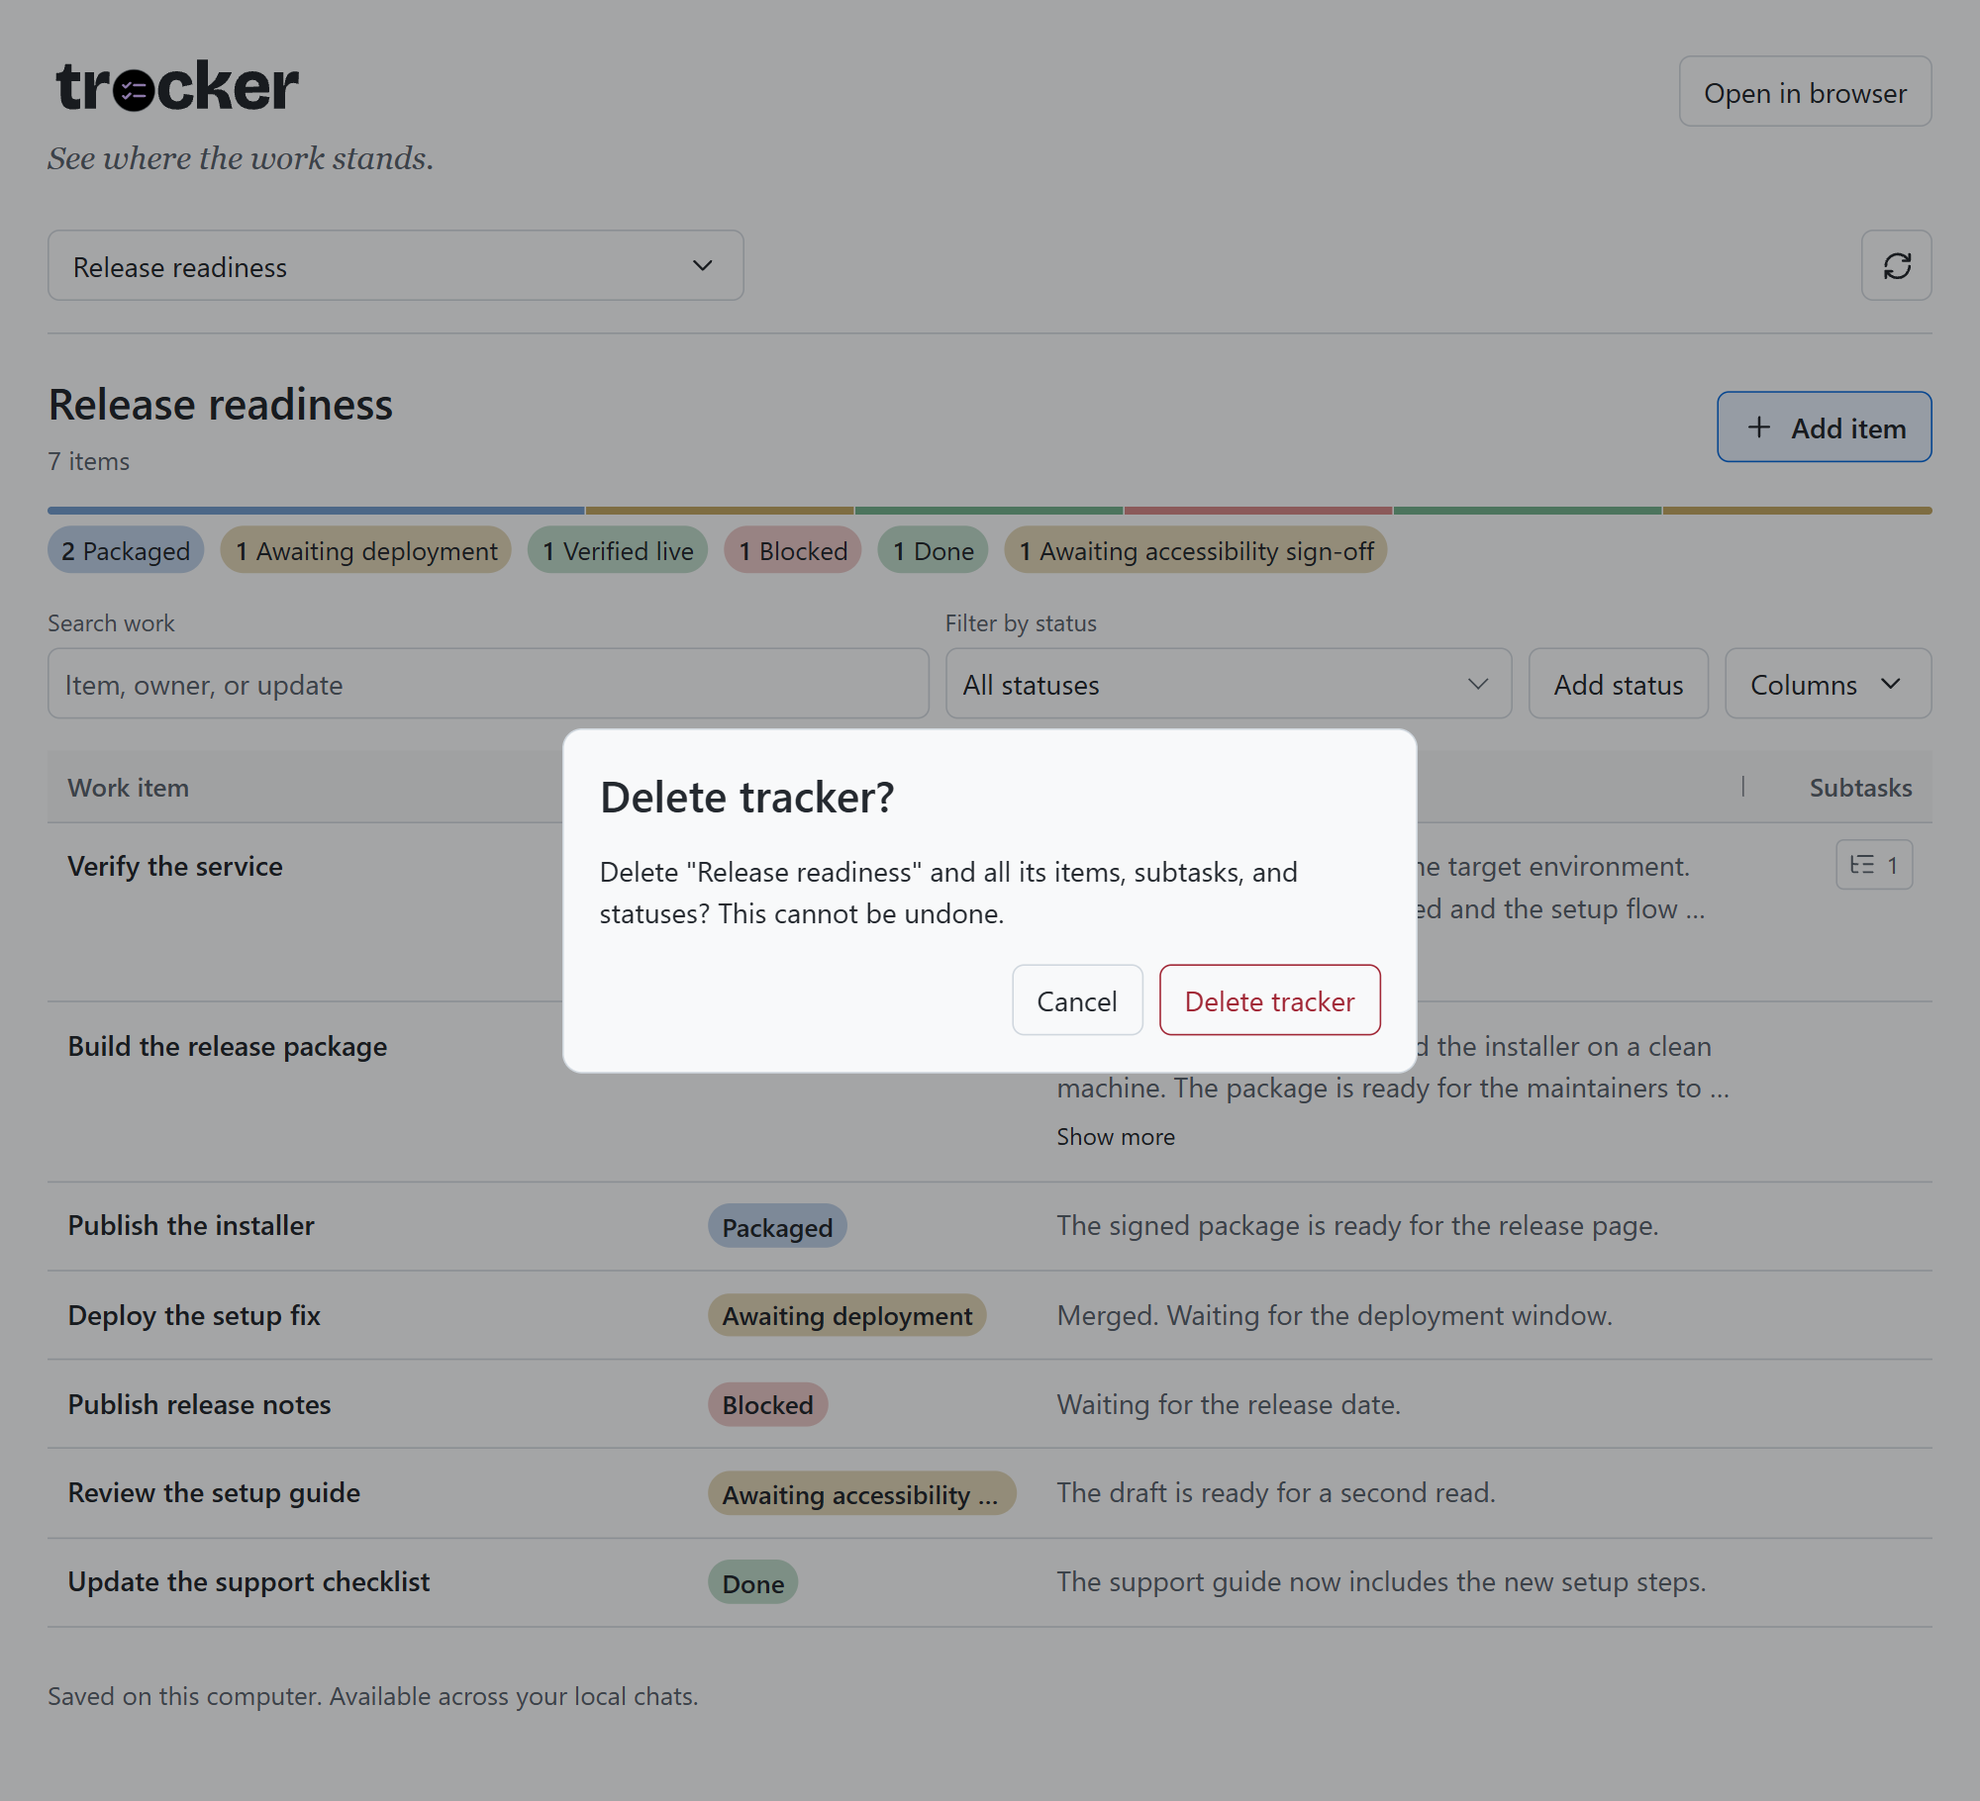
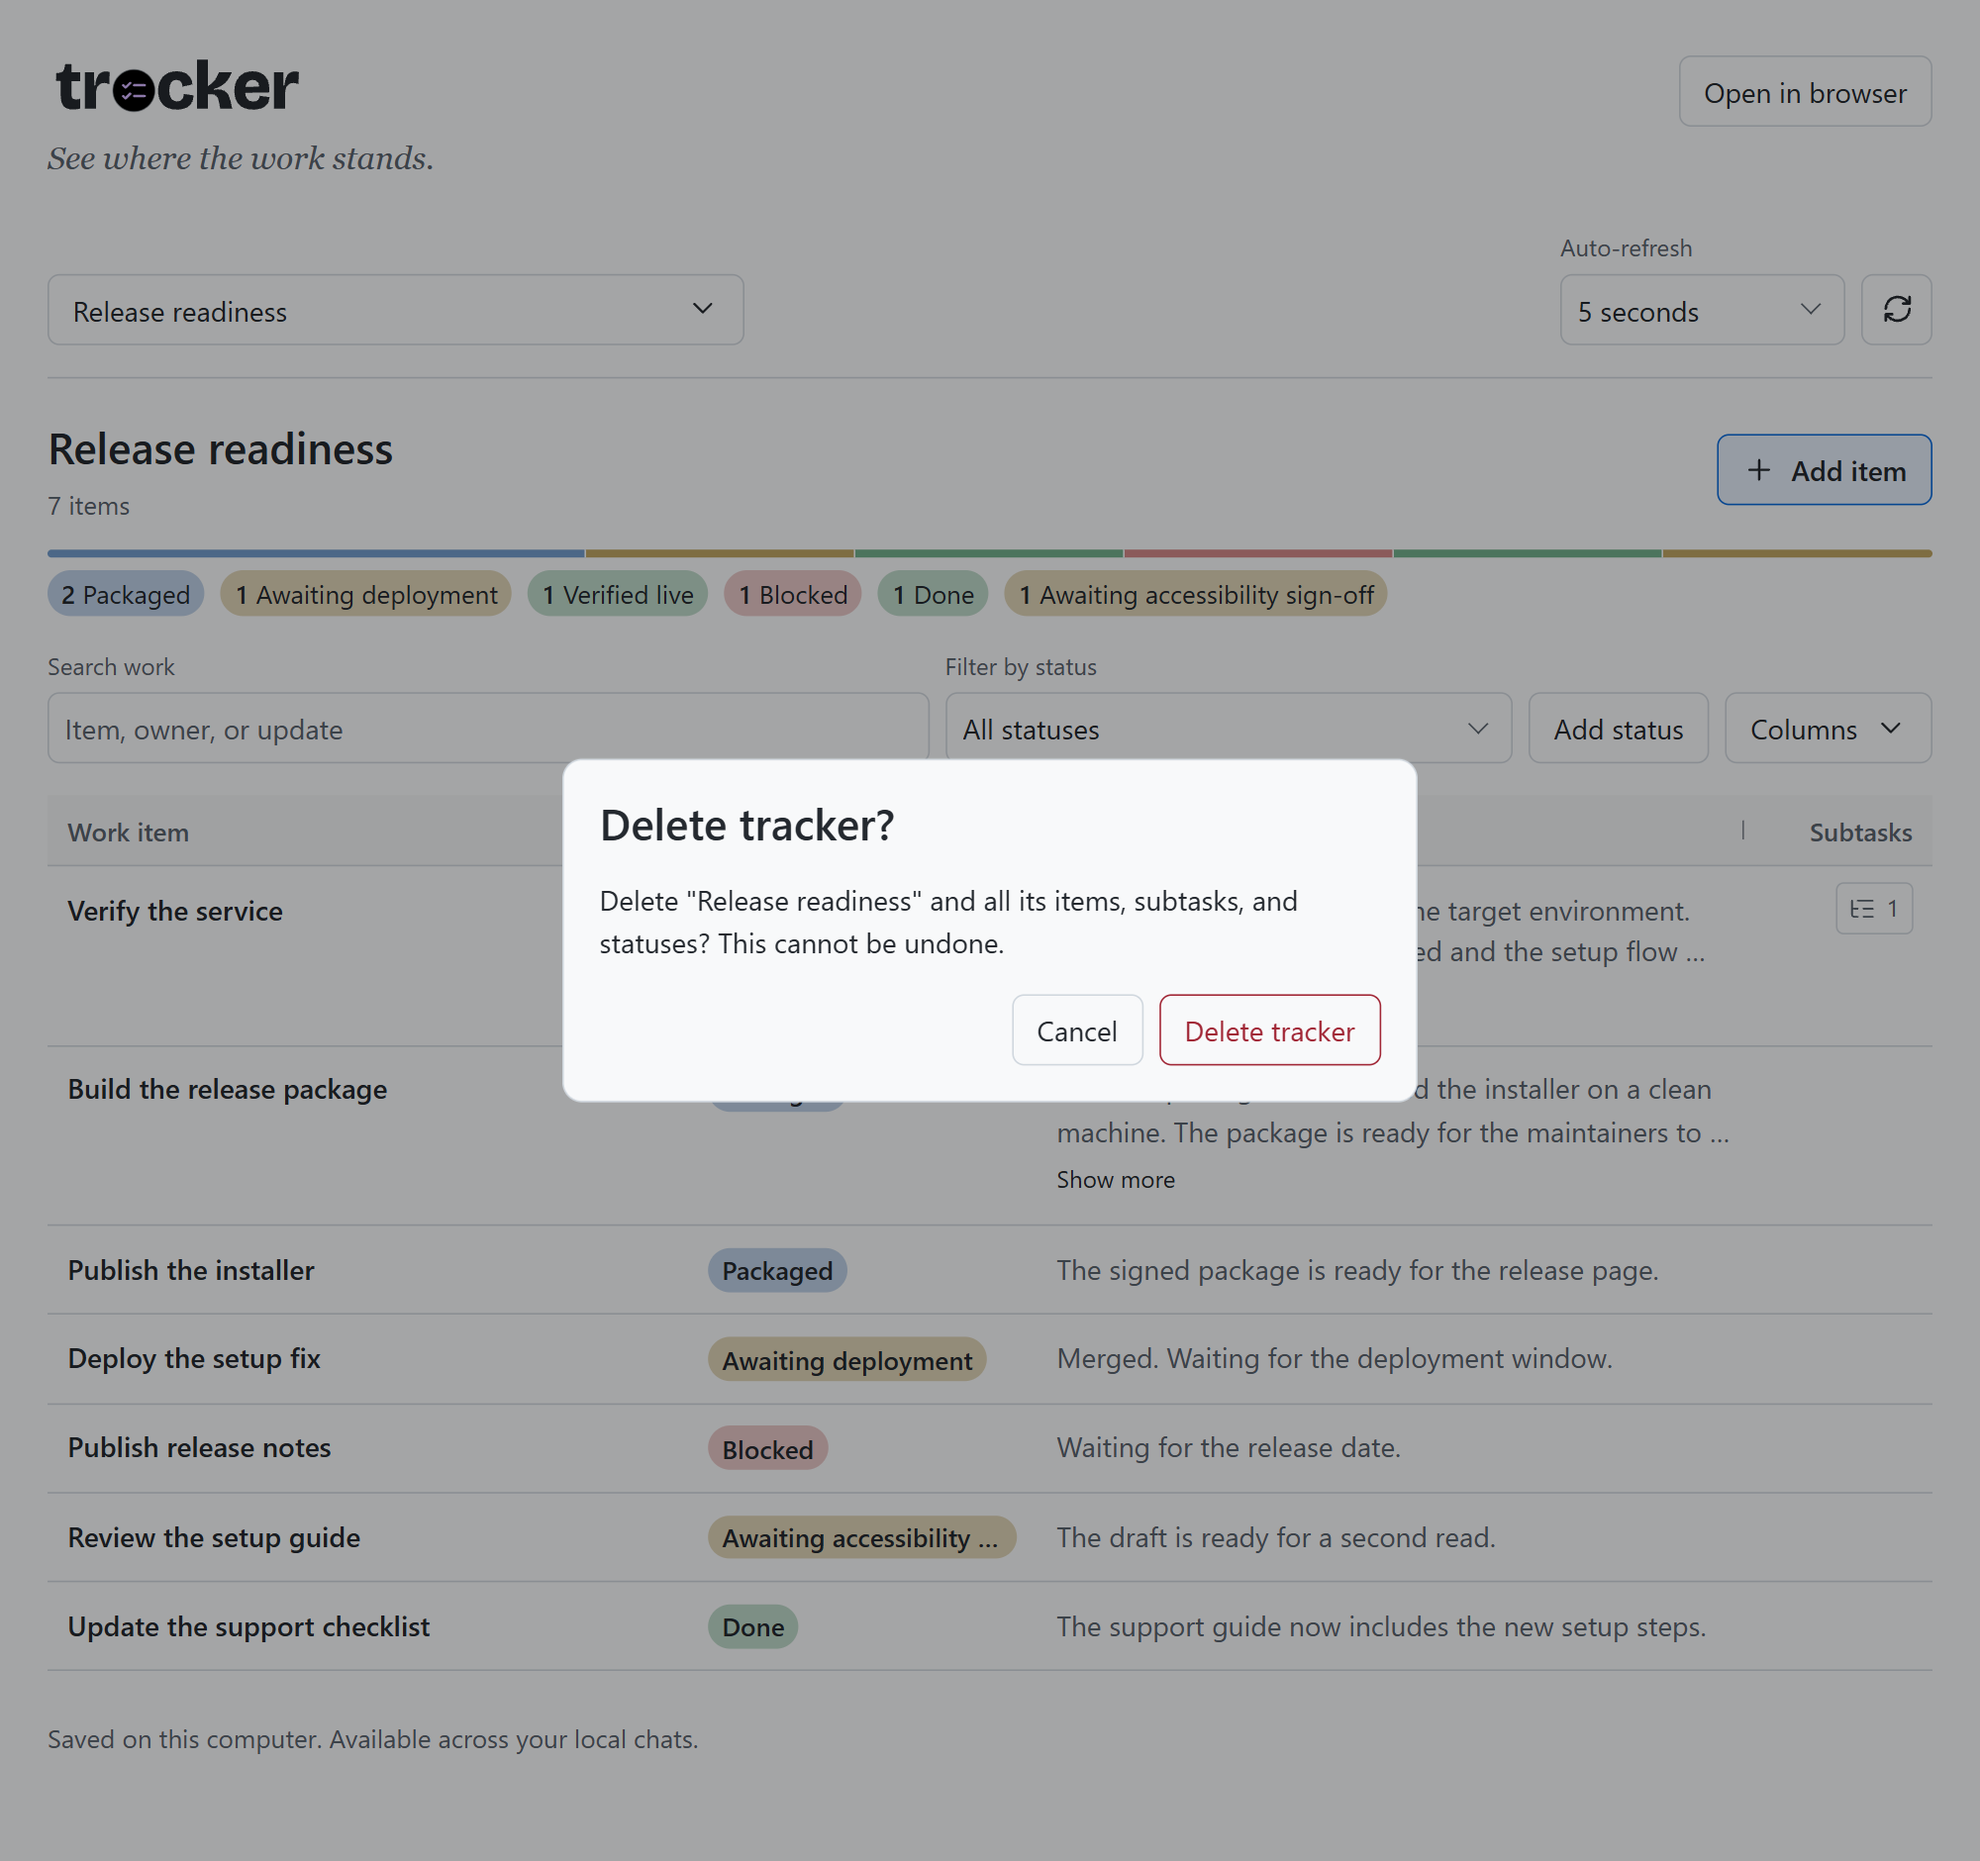
Add configurable Tracker auto-refresh

diff --git a/apps/tracker/app.js b/apps/tracker/app.js
@@ -1,4 +1,4 @@
-"use strict";
+import { createRefreshCycle } from "./refresh.mjs";
 
 const byId = id => document.getElementById(id);
 const token = document.querySelector('meta[name="tracker-token"]').content;
@@ -30,6 +30,16 @@ const removeForm = byId("remove-form");
 let preferredId = pageUrl.searchParams.get("board");
 let boards = [], data = null, snapshot = "", revision = 0, reading = false, saving = false;
 let naming, editing, deleting;
+const autoRefresh = byId("auto-refresh");
+const refreshCycle = createRefreshCycle({
+    refresh() {
+        if (document.querySelector("dialog[open], .board-menu:popover-open, .column-resize.dragging")) {
+            refreshCycle.setInterval(Number(autoRefresh.value));
+            return;
+        }
+        void load();
+    },
+});
 
 const statusTips = new Map([
     ["todo", "Work has not started."],
@@ -134,6 +144,7 @@ async function load({ manual = false } = {}) {
     const current = ++revision;
     const oldBoard = data?.board.id;
     reading = true;
+    refreshCycle.setBusy(true);
     if (manual) byId("refresh").disabled = true;
     try {
         const { boards: available } = await action("list_boards");
@@ -178,7 +189,10 @@ async function load({ manual = false } = {}) {
         showMessage(byId("error"), readableError(error));
         if (!snapshot || byId("board").hidden) showWelcome("Could not load trackers. Use Refresh to try again.");
     } finally {
-        if (current === revision) reading = false;
+        if (current === revision) {
+            reading = false;
+            refreshCycle.setBusy(saving);
+        }
         if (manual) byId("refresh").disabled = false;
     }
 }
@@ -533,6 +547,7 @@ function openItem(item) {
 
 function setSaving(form, value) {
     saving = value;
+    refreshCycle.setBusy(reading || saving);
     form.setAttribute("aria-busy", String(value));
     for (const button of form.querySelectorAll("button")) button.disabled = value;
 }
@@ -901,8 +916,10 @@ document.addEventListener("pointerdown", hideTip);
 window.addEventListener("scroll", hideTip, { passive: true });
 window.addEventListener("resize", hideTip);
 
+autoRefresh.addEventListener("change", () => refreshCycle.setInterval(Number(autoRefresh.value)));
+document.addEventListener("visibilitychange", () => refreshCycle.setHidden(document.hidden));
+window.addEventListener("pagehide", () => refreshCycle.stop());
+window.addEventListener("pageshow", () => refreshCycle.resume());
+refreshCycle.setHidden(document.hidden);
+refreshCycle.setInterval(Number(autoRefresh.value));
 void load();
-setInterval(() => {
-    if (!document.hidden && !reading && !saving &&
-        !document.querySelector("dialog[open], #board-menu:popover-open")) void load();
-}, 3000);

diff --git a/apps/tracker/index.html b/apps/tracker/index.html
@@ -8,7 +8,7 @@
   <link rel="icon" type="image/svg+xml" href="/icon.svg?v=__ICON_VERSION__">
   <link rel="stylesheet" href="/branding.css">
   <link rel="stylesheet" href="/style.css">
-  <script src="/app.js" defer></script>
+  <script src="/app.js" type="module"></script>
 </head>
 <body>
   <template id="subtask-icon">
@@ -39,7 +39,20 @@
           </div>
         </div>
       </div>
-      <button type="button" id="refresh" class="control-button icon-button refresh-control" aria-label="Refresh trackers" data-tip="Refresh trackers"></button>
+      <div class="refresh-options">
+        <div class="field select-field">
+          <label for="auto-refresh">Auto-refresh</label>
+          <select id="auto-refresh">
+            <option value="0">Off</option>
+            <option value="5000" selected>5 seconds</option>
+            <option value="10000">10 seconds</option>
+            <option value="30000">30 seconds</option>
+            <option value="60000">1 minute</option>
+            <option value="300000">5 minutes</option>
+          </select>
+        </div>
+        <button type="button" id="refresh" class="control-button icon-button refresh-control" aria-label="Refresh trackers" data-tip="Refresh trackers"></button>
+      </div>
     </div>
     <p id="error" class="error" role="alert" hidden></p>
     <div id="welcome" class="empty" role="status">Loading trackers...</div>

diff --git a/apps/tracker/style.css b/apps/tracker/style.css
@@ -11,7 +11,9 @@ footer { margin-top: 24px; }
     display: flex; flex-wrap: wrap; align-items: end; gap: var(--control-gap);
 }
 .board-bar { margin-top: 24px; padding-bottom: 16px; border-bottom: 1px solid var(--edge); justify-content: space-between; }
-.board-menu-wrap { flex: 1 1 0; min-width: 0; max-width: 22rem; }
+.board-menu-wrap { flex: 1 1 8rem; min-width: 0; max-width: 22rem; }
+.refresh-options { display: flex; align-items: end; gap: var(--control-gap); margin-inline-start: auto; }
+.refresh-options .field { inline-size: 9rem; }
 #board-menu-button { width: 100%; justify-content: space-between; }
 #board-menu-button:active, .board-menu button:active { transform: none; }
 #board-menu-label { min-width: 0; overflow: hidden; text-overflow: ellipsis; }

diff --git a/apps/tracker/README.md b/apps/tracker/README.md
@@ -2,7 +2,7 @@
 
 Keep a work list for a release, a handoff, or your own projects. Update it in the canvas or ask Copilot to update it from a chat.
 
-![Tracker with a status summary above the table, tinted status tags, and two-line update previews](screenshot-table-view.png)
+![Tracker with auto-refresh, a status summary, and tinted status tags](screenshot-table-view.png)
 
 ## Use
 
@@ -12,13 +12,17 @@ In the GitHub Copilot app, open **Canvas apps** and choose **Tracker**. If it is
 
 Choose **Add item** or select an item's title to edit it. Items can have an owner, an update, and a source link.
 
-The bar and counts above the table show how the tracker's items are split by status. They update as items change, including edits from other chats. The summary counts top-level items, not subtasks. Search and status filters only change the table. Hidden items count only while **Show hidden items** is on.
+The bar and counts above the table show how the tracker's items are split by status. The summary counts top-level items, not subtasks. Search and status filters only change the table. Hidden items count only while **Show hidden items** is on.
 
 New items start at **To do** unless a status filter is active. The table and summary use the same tinted tags with neutral text in light and dark themes. **In progress** and **Awaiting deployment** are yellow, **Packaged** is blue, **Verified live** and **Done** are green, and **Blocked** is red. **To do** and custom statuses without an assigned color use slate. Hover over a status in the table or focus it with the keyboard to see the full label and what it means. Use **Add status** for a custom label and an optional tip. [See all statuses](actions.md#built-in-statuses).
 
 To add a subtask, pick a parent in **Add under**. Subtasks start collapsed. Use the count in the **Subtasks** column to open them. **Expand all** appears when more than one item has subtasks or when the **Subtasks** column is hidden. If a subtask matches a search or filter, its parent appears without expanding. Each subtask has its own status.
 
 Link a Copilot session when you create a tracker or from the **Trackers** menu. The session name appears above the table and groups trackers in the menu. Choose **No session linked** to unlink it. Linking doesn't make plans, pull requests, or sessions update your tracker automatically.
+
+#### Refresh the tracker
+
+**Auto-refresh** checks for changes from other chats every 5 seconds by default. Choose a slower interval or **Off** for this view. Automatic checks pause while the view is hidden or you're editing an item. Use **Refresh trackers** to check immediately. Changes you save in this view update the table and summary even when auto-refresh is off.
 
 #### Filter and adjust the table
 

diff --git a/apps/tracker/PRODUCT.md b/apps/tracker/PRODUCT.md
@@ -20,6 +20,8 @@ Users can hide or resize columns in the current view without changing the saved 
 
 Users can hide items without losing them, restore hidden items, or delete an item or tracker after confirmation.
 
+Each view can refresh manually or on a selected interval. Automatic refresh checks for saved changes from other chats without interrupting an open editor.
+
 A tracker can reference a Copilot session, but the link is optional and does not change which chats can use it.
 
 Tracker follows the existing Canvas apps' design language and keeps the status table compact enough to read beside a chat.
